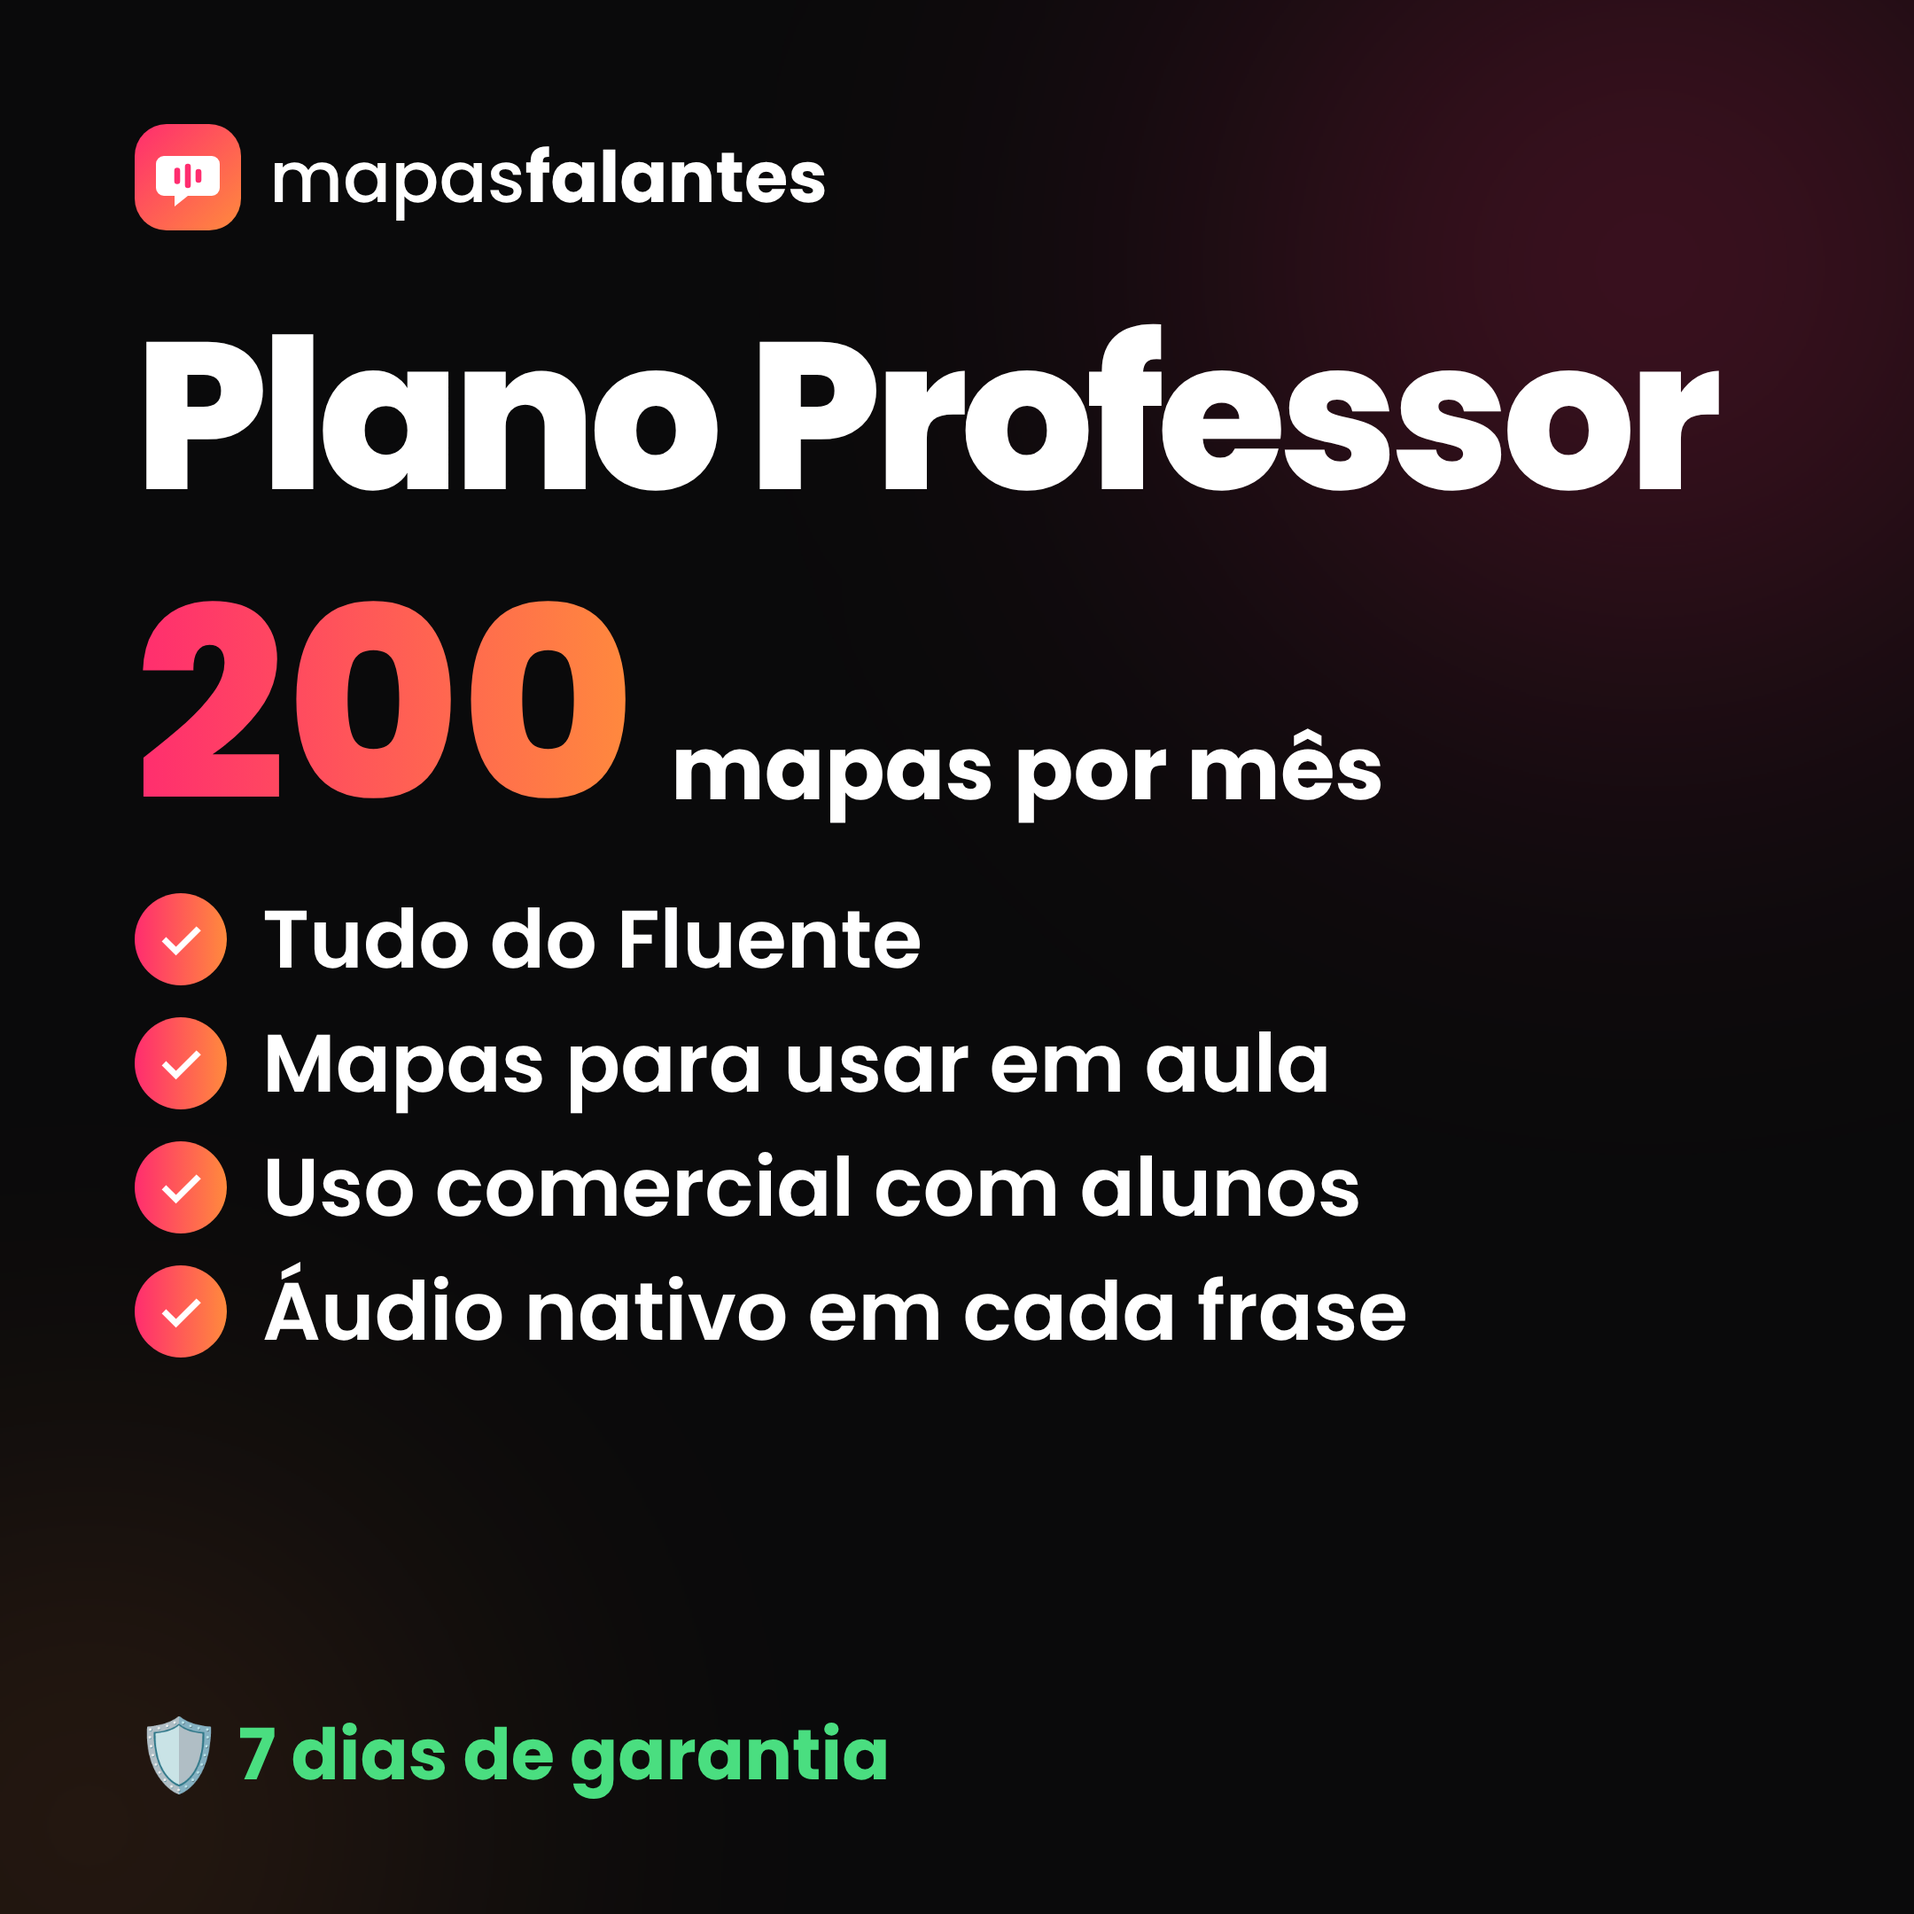
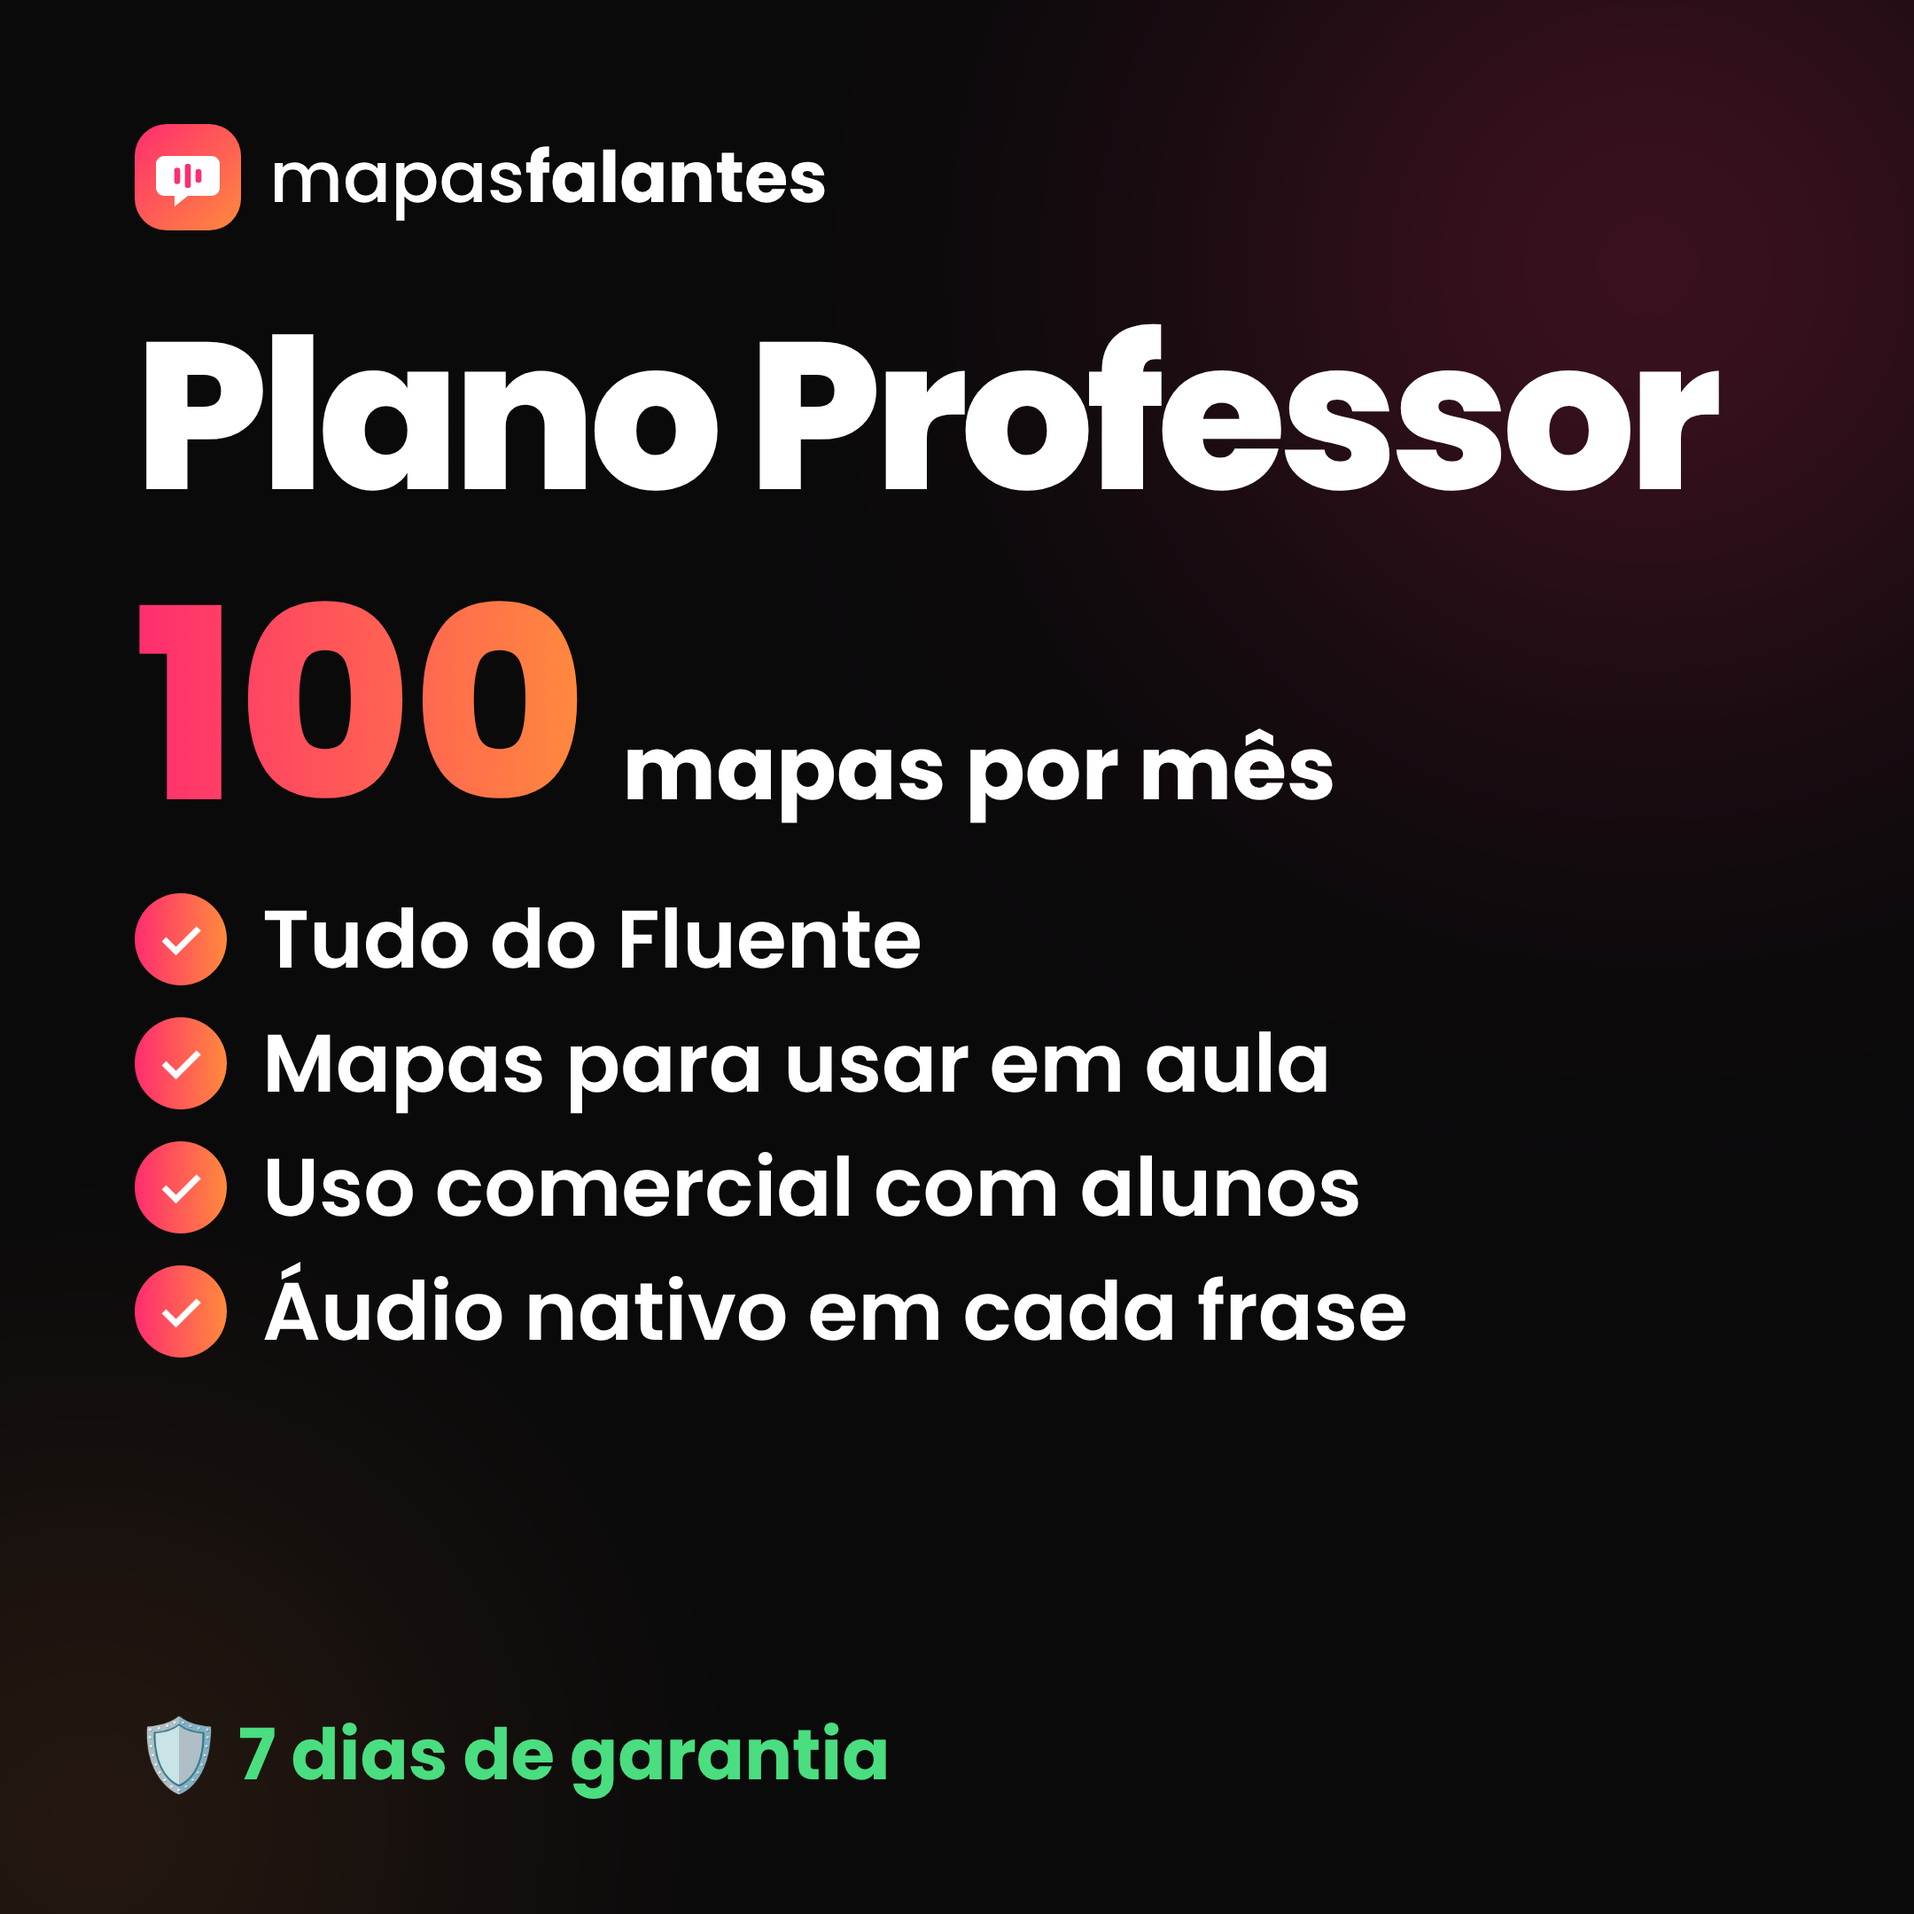
Guarda o áudio de cada frase (gera 1 vez só) e plano Professor com 100 mapas
Claude-Session: https://claude.ai/code/session_01L1CiTeDM6vumRAXk785LnN

Changed region(s): [[0.062, 0.3102, 0.7134, 0.4343]]

diff --git a/04_APP/app/api/tts/route.ts b/04_APP/app/api/tts/route.ts
@@ -1,8 +1,9 @@
 // Gera o áudio de uma frase em inglês via ElevenLabs.
 // GET /api/tts?text=I%20am  →  audio/mpeg
-// No protótipo o áudio é gerado sob demanda e fica em cache no navegador/CDN;
-// em produção, salvar no Supabase Storage para não pagar a mesma frase duas vezes.
-import { getCurrentUser } from "@/lib/supa/server";
+// Cada frase é gerada UMA vez na ElevenLabs e guardada no Storage; as próximas
+// vezes (de qualquer pessoa) saem do Storage, sem custo.
+import { createHash } from "node:crypto";
+import { createSupabaseAdmin, getCurrentUser } from "@/lib/supa/server";
 
 export const runtime = "nodejs";
 
@@ -16,6 +17,13 @@ export async function GET(req: Request) {
   if (!ELEVENLABS_API_KEY || !ELEVENLABS_VOICE_ID) {
     return new Response("ElevenLabs não configurado", { status: 500 });
   }
+
+  const admin = createSupabaseAdmin();
+  const key = createHash("sha1").update(`${ELEVENLABS_VOICE_ID}|${text}`).digest("hex");
+  const path = `audio/${key}.mp3`;
+  const publicUrl = admin.storage.from("map-images").getPublicUrl(path).data.publicUrl;
+  const cached = await fetch(publicUrl, { method: "HEAD" }).catch(() => null);
+  if (cached?.ok) return Response.redirect(publicUrl, 302);
 
   const res = await fetch(
     `https://api.elevenlabs.io/v1/text-to-speech/${ELEVENLABS_VOICE_ID}`,
@@ -40,7 +48,13 @@ export async function GET(req: Request) {
     return new Response(`ElevenLabs falhou (${res.status}): ${detail}`, { status: 502 });
   }
 
-  return new Response(res.body, {
+  const audio = Buffer.from(await res.arrayBuffer());
+  const { error } = await admin.storage
+    .from("map-images")
+    .upload(path, audio, { contentType: "audio/mpeg", upsert: true });
+  if (error) console.error("Falha ao guardar áudio:", error.message);
+
+  return new Response(audio, {
     headers: {
       "Content-Type": "audio/mpeg",
       "Cache-Control": "private, max-age=31536000, immutable",

diff --git a/04_APP/lib/plans.ts b/04_APP/lib/plans.ts
@@ -44,8 +44,8 @@ export const PLANS: Plan[] = [
     tagline: "Para quem ensina inglês.",
     price: "R$99,90",
     oldPrice: "R$199,90",
-    credits: 200,
-    features: ["200 mapas por mês", "Tudo do Fluente", "Mapas para imprimir e usar em aula", "Uso comercial com seus alunos"],
+    credits: 100,
+    features: ["100 mapas por mês", "Tudo do Fluente", "Mapas para imprimir e usar em aula", "Uso comercial com seus alunos"],
   },
 ];
 

diff --git a/05_MAPAS_FALANTES_IA/spec.md b/05_MAPAS_FALANTES_IA/spec.md
@@ -46,7 +46,7 @@ Sugestão de planos (validar com teste A/B):
 |---|---|---|
 | Essencial | R$29,90/mês | 30 mapas/mês |
 | Fluente | R$49,90/mês | 60 mapas/mês |
-| Professor | R$99,90/mês | 200 mapas/mês, uso com alunos |
+| Professor | R$99,90/mês | 100 mapas/mês, uso com alunos |
 | Entrada (pagamento único) | R$37,90 | só a biblioteca pronta, sem gerador |
 
 ## 4. Custo por mapa gerado (estimativa — confirmar com as faturas reais)
